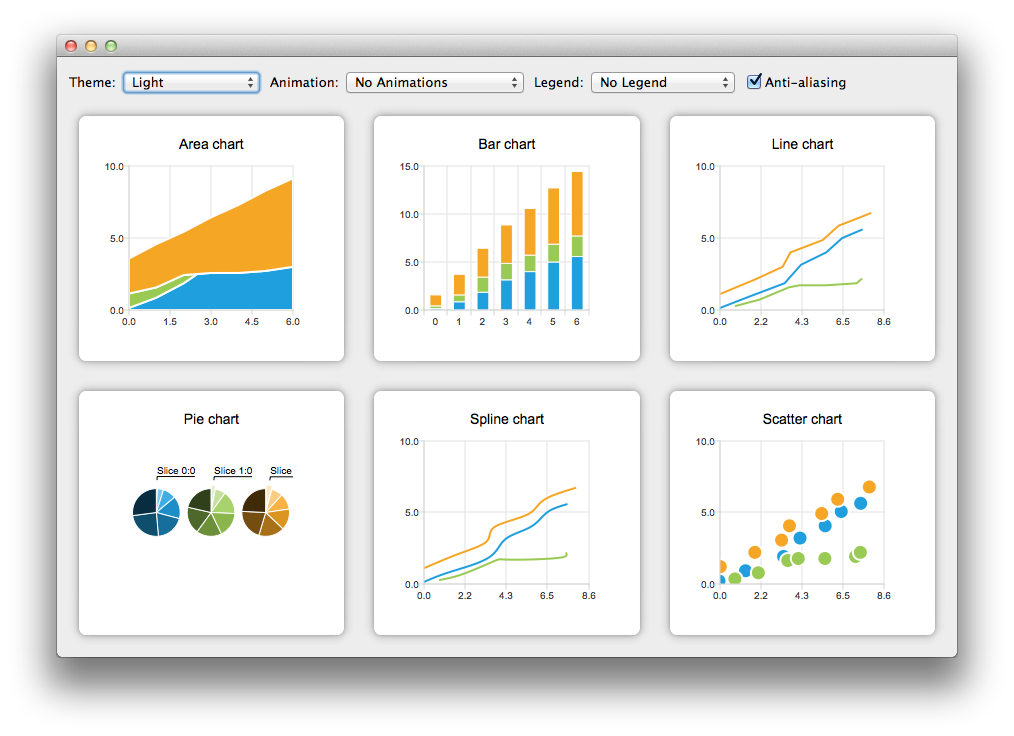
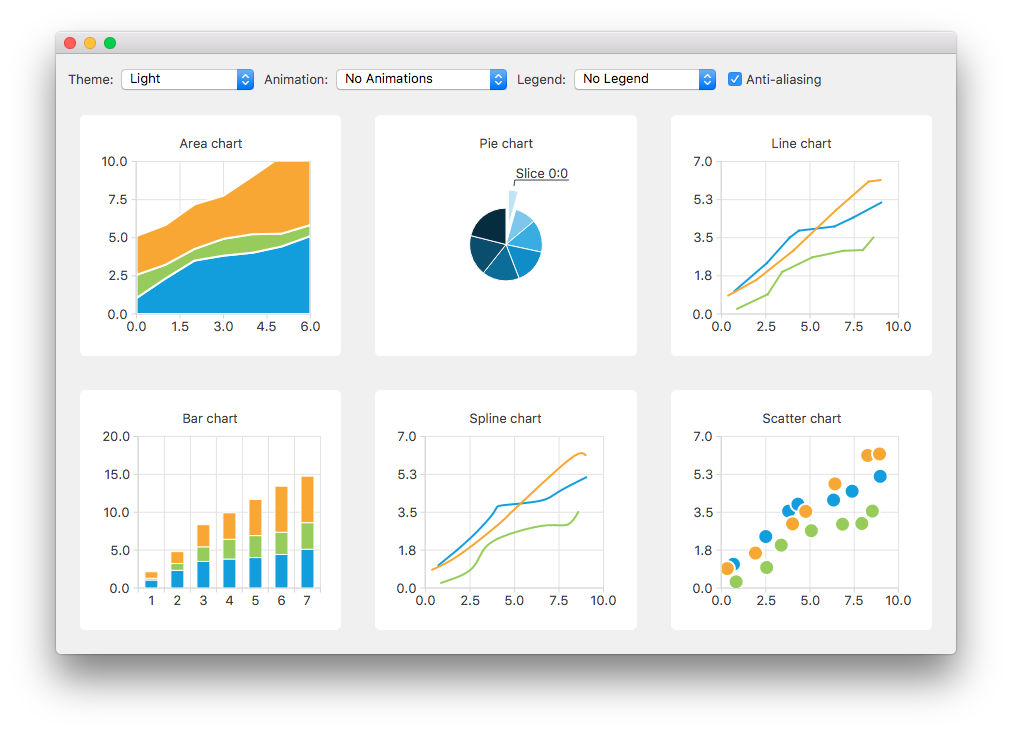
Update appearance of Chart Themes Example
Default ranges are set to axes. Only one pie chart is shown. Space added
to y-axis labels to add space between labels and axis.

Task-number: QTBUG-60662

diff --git a/examples/charts/chartthemes/themewidget.cpp b/examples/charts/chartthemes/themewidget.cpp
@@ -53,6 +53,7 @@
 #include <QtCore/QRandomGenerator>
 #include <QtCharts/QBarCategoryAxis>
 #include <QtWidgets/QApplication>
+#include <QtCharts/QValueAxis>
 
 ThemeWidget::ThemeWidget(QWidget *parent) :
     QWidget(parent),
@@ -75,7 +76,9 @@ ThemeWidget::ThemeWidget(QWidget *parent) :
     m_ui->gridLayout->addWidget(chartView, 1, 0);
     m_charts << chartView;
 
-    chartView = new QChartView(createBarChart(m_valueCount));
+    chartView = new QChartView(createPieChart());
+    // Funny things happen if the pie slice labels do not fit the screen, so we ignore size policy
+    chartView->setSizePolicy(QSizePolicy::Ignored, QSizePolicy::Ignored);
     m_ui->gridLayout->addWidget(chartView, 1, 1);
     m_charts << chartView;
 
@@ -83,9 +86,7 @@ ThemeWidget::ThemeWidget(QWidget *parent) :
     m_ui->gridLayout->addWidget(chartView, 1, 2);
     m_charts << chartView;
 
-    chartView = new QChartView(createPieChart());
-    // Funny things happen if the pie slice labels do not fit the screen, so we ignore size policy
-    chartView->setSizePolicy(QSizePolicy::Ignored, QSizePolicy::Ignored);
+    chartView = new QChartView(createBarChart(m_valueCount));
     m_ui->gridLayout->addWidget(chartView, 2, 0);
     m_charts << chartView;
 
@@ -191,9 +192,14 @@ QChart *ThemeWidget::createAreaChart() const
         area->setName(name + QString::number(nameIndex));
         nameIndex++;
         chart->addSeries(area);
-        chart->createDefaultAxes();
         lowerSeries = upperSeries;
     }
+
+    chart->createDefaultAxes();
+    chart->axisX()->setRange(0, m_valueCount - 1);
+    chart->axisY()->setRange(0, m_valueMax);
+    // Add space to label to add space between labels and axis
+    static_cast<QValueAxis *>(chart->axisY())->setLabelFormat("%.1f  ");
 
     return chart;
 }
@@ -212,7 +218,11 @@ QChart *ThemeWidget::createBarChart(int valueCount) const
         series->append(set);
     }
     chart->addSeries(series);
+
     chart->createDefaultAxes();
+    chart->axisY()->setRange(0, m_valueMax * 2);
+    // Add space to label to add space between labels and axis
+    static_cast<QValueAxis *>(chart->axisY())->setLabelFormat("%.1f  ");
 
     return chart;
 }
@@ -232,7 +242,12 @@ QChart *ThemeWidget::createLineChart() const
         nameIndex++;
         chart->addSeries(series);
     }
+
     chart->createDefaultAxes();
+    chart->axisX()->setRange(0, m_valueMax);
+    chart->axisY()->setRange(0, m_valueCount);
+    // Add space to label to add space between labels and axis
+    static_cast<QValueAxis *>(chart->axisY())->setLabelFormat("%.1f  ");
 
     return chart;
 }
@@ -242,29 +257,24 @@ QChart *ThemeWidget::createPieChart() const
     QChart *chart = new QChart();
     chart->setTitle("Pie chart");
 
-    qreal pieSize = 1.0 / m_dataTable.count();
-    for (int i = 0; i < m_dataTable.count(); i++) {
-        QPieSeries *series = new QPieSeries(chart);
-        for (const Data &data : m_dataTable[i]) {
-            QPieSlice *slice = series->append(data.second, data.first.y());
-            if (data == m_dataTable[i].first()) {
-                slice->setLabelVisible();
-                slice->setExploded();
-            }
+    QPieSeries *series = new QPieSeries(chart);
+    for (const Data &data : m_dataTable[0]) {
+        QPieSlice *slice = series->append(data.second, data.first.y());
+        if (data == m_dataTable[0].first()) {
+            // Show the first slice exploded with label
+            slice->setLabelVisible();
+            slice->setExploded();
+            slice->setExplodeDistanceFactor(0.5);
         }
-        qreal hPos = (pieSize / 2) + (i / (qreal) m_dataTable.count());
-        series->setPieSize(pieSize);
-        series->setHorizontalPosition(hPos);
-        series->setVerticalPosition(0.5);
-        chart->addSeries(series);
     }
+    series->setPieSize(0.4);
+    chart->addSeries(series);
 
     return chart;
 }
 
 QChart *ThemeWidget::createSplineChart() const
 {
-    // spine chart
     QChart *chart = new QChart();
     chart->setTitle("Spline chart");
     QString name("Series ");
@@ -277,7 +287,13 @@ QChart *ThemeWidget::createSplineChart() const
         nameIndex++;
         chart->addSeries(series);
     }
+
     chart->createDefaultAxes();
+    chart->axisX()->setRange(0, m_valueMax);
+    chart->axisY()->setRange(0, m_valueCount);
+    // Add space to label to add space between labels and axis
+    static_cast<QValueAxis *>(chart->axisY())->setLabelFormat("%.1f  ");
+
     return chart;
 }
 
@@ -296,7 +312,13 @@ QChart *ThemeWidget::createScatterChart() const
         nameIndex++;
         chart->addSeries(series);
     }
+
     chart->createDefaultAxes();
+    chart->axisX()->setRange(0, m_valueMax);
+    chart->axisY()->setRange(0, m_valueCount);
+    // Add space to label to add space between labels and axis
+    static_cast<QValueAxis *>(chart->axisY())->setLabelFormat("%.1f  ");
+
     return chart;
 }
 
@@ -310,6 +332,7 @@ void ThemeWidget::updateUI()
         for (QChartView *chartView : charts)
             chartView->chart()->setTheme(theme);
 
+        // Set palette colors based on selected theme
         QPalette pal = window()->palette();
         if (theme == QChart::ChartThemeLight) {
             pal.setColor(QPalette::Window, QRgb(0xf0f0f0));
@@ -339,10 +362,12 @@ void ThemeWidget::updateUI()
         window()->setPalette(pal);
     }
 
+    // Update antialiasing
     bool checked = m_ui->antialiasCheckBox->isChecked();
     for (QChartView *chart : charts)
         chart->setRenderHint(QPainter::Antialiasing, checked);
 
+    // Update animation options
     QChart::AnimationOptions options(
                 m_ui->animatedComboBox->itemData(m_ui->animatedComboBox->currentIndex()).toInt());
     if (!m_charts.isEmpty() && m_charts.at(0)->chart()->animationOptions() != options) {
@@ -350,6 +375,7 @@ void ThemeWidget::updateUI()
             chartView->chart()->setAnimationOptions(options);
     }
 
+    // Update legend alignment
     Qt::Alignment alignment(
                 m_ui->legendComboBox->itemData(m_ui->legendComboBox->currentIndex()).toInt());
 
